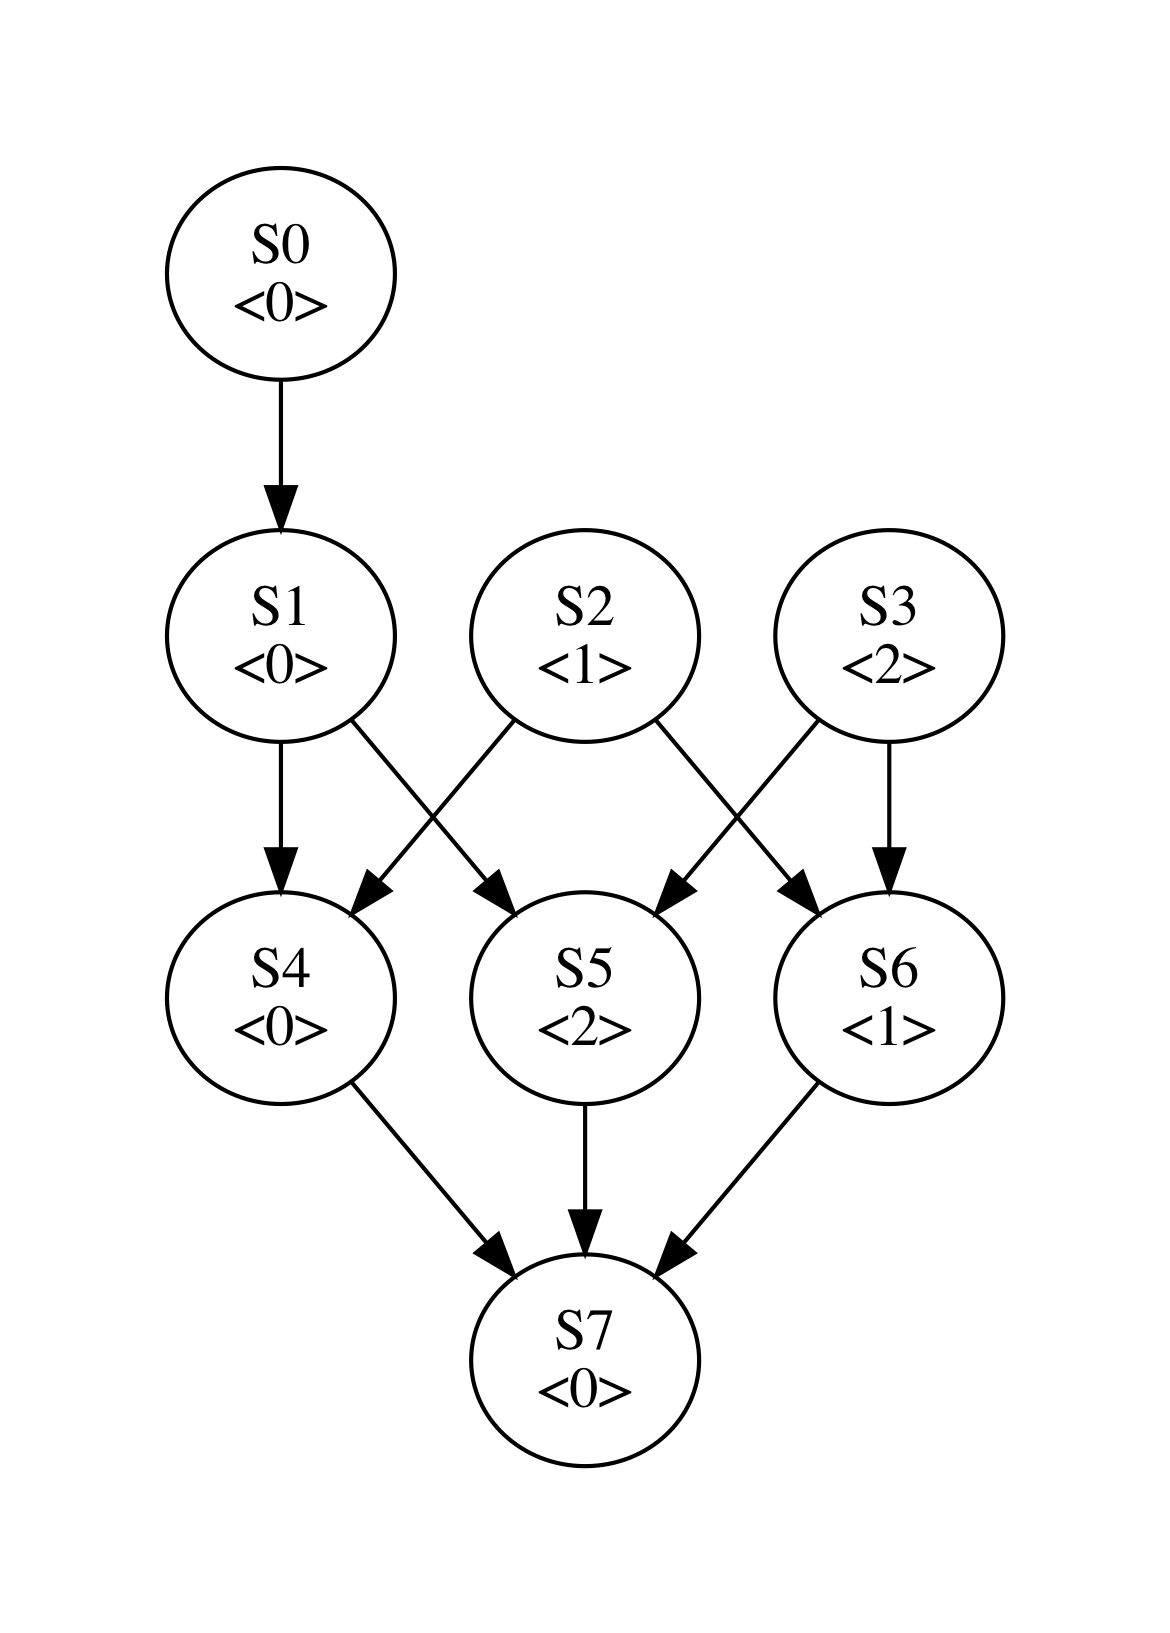
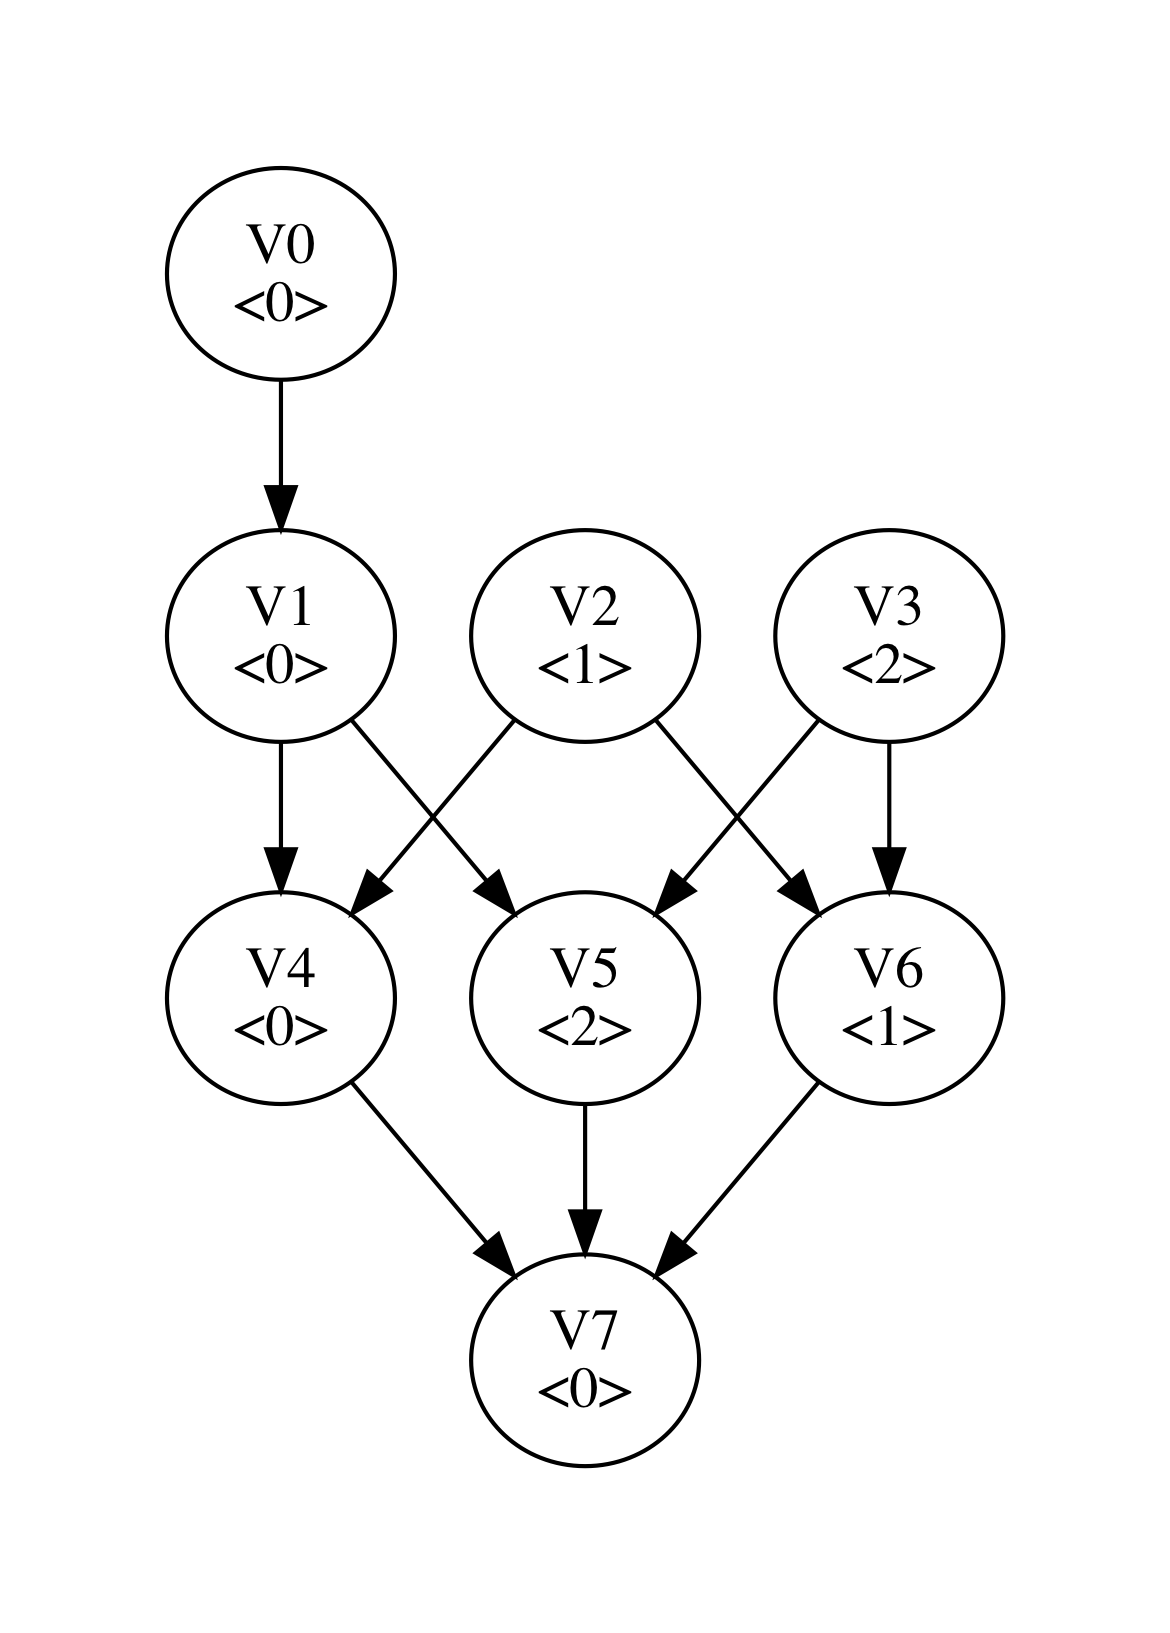
ref

diff --git a/plot.py b/plot.py
@@ -5,7 +5,7 @@ def render(G):
 
     for n in sorted(G.nodes()):
         if "label" in G.node[n]:
-            dot.node(str(n), "S{}\n<{}>".format(n, G.node[n]["label"]))
+            dot.node(str(n), "V{}\n<{}>".format(n, G.node[n]["label"]))
         else:
             dot.node(str(n), "S{}".format(n))
 
